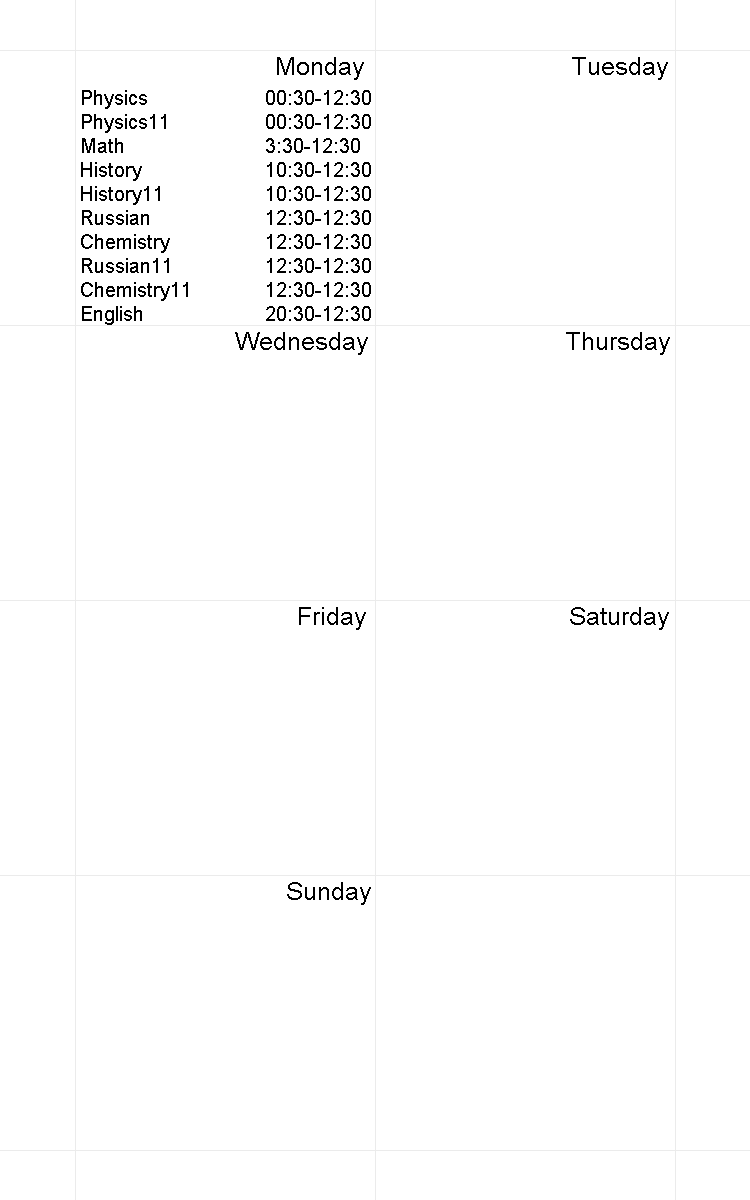
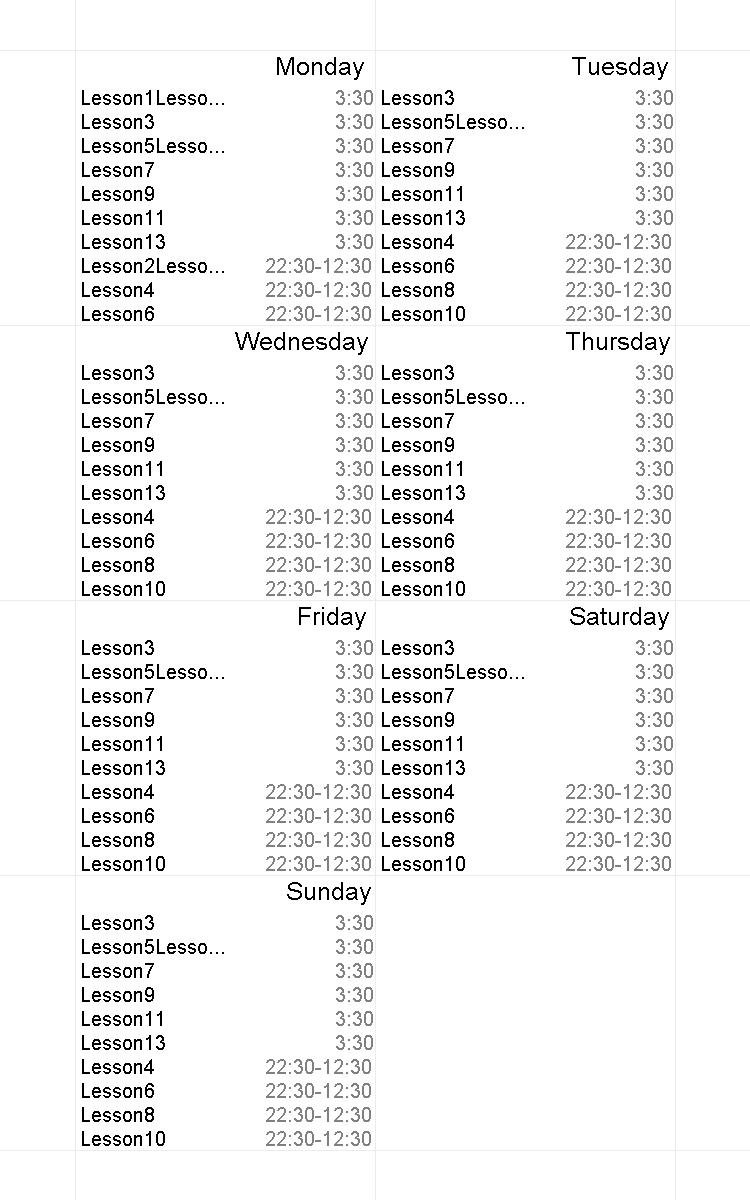
Other days done. Time can read only start or both end and start. Too long strings are replaced

diff --git a/src/TimetableTests/CheckDrawTimetable.java b/src/TimetableTests/CheckDrawTimetable.java
@@ -11,13 +11,49 @@ public class CheckDrawTimetable {
 	@Test
 	public void test1() {
 		String path = "out.png";
-		String data = "Math: monday 3:30-12:30 \nLiterature: Monday 22:30-12:30 \n";
-		data += "English: MON 20:30-12:30 \nHistory: Monday 10:30-12:30 \n";
-		data += "Kazakh: Monday 22:30-12:30 \nRussian: Monday 12:30-12:30 \n";
-		data += "Physics: Monday 00:30-12:30 \nChemistry: Monday 12:30-12:30 \n";
-		data += "English11: MON 20:30-12:30 \nHistory11: Monday 10:30-12:30 \n";
-		data += "Kazakh11: Monday 22:30-12:30 \nRussian11: Monday 12:30-12:30 \n";
-		data += "Physics11: Monday 00:30-12:30 \nChemistry11: Monday 12:30-12:30 \n";
+		String data = "Lesson1Lesson1Lesson1: Monday 3:30 \nLesson2Lesson1L: Monday 22:30-12:30 \n";
+        data += "Lesson3: Monday 3:30 \nLesson4: Monday 22:30-12:30 \n";
+        data += "Lesson5Lesson1Lesson1Lesson1: Monday 3:30 \nLesson6: Monday 22:30-12:30 \n";
+        data += "Lesson7: Monday 3:30 \nLesson8: Monday 22:30-12:30 \n";
+        data += "Lesson9: Monday 3:30 \nLesson10: Monday 22:30-12:30 \n";
+        data += "Lesson11: Monday 3:30 \nLesson12: Monday 22:30-12:30 \n";
+        data += "Lesson13: Monday 3:30 \nLesson14: Monday 22:30-12:30 \n";
+        data += "Lesson3: Tuesday 3:30 \nLesson4: Tuesday 22:30-12:30 \n";
+        data += "Lesson5Lesson1Lesson1Lesson1: Tuesday 3:30 \nLesson6: Tuesday 22:30-12:30 \n";
+        data += "Lesson7: Tuesday 3:30 \nLesson8: Tuesday 22:30-12:30 \n";
+        data += "Lesson9: Tuesday 3:30 \nLesson10: Tuesday 22:30-12:30 \n";
+        data += "Lesson11: Tuesday 3:30 \nLesson12: Tuesday 22:30-12:30 \n";
+        data += "Lesson13: Tuesday 3:30 \nLesson14: Tuesday 22:30-12:30 \n";
+        data += "Lesson3: Wednesday 3:30 \nLesson4: Wednesday 22:30-12:30 \n";
+        data += "Lesson5Lesson1Lesson1Lesson1: Wednesday 3:30 \nLesson6: Wednesday 22:30-12:30 \n";
+        data += "Lesson7: Wednesday 3:30 \nLesson8: Wednesday 22:30-12:30 \n";
+        data += "Lesson9: Wednesday 3:30 \nLesson10: Wednesday 22:30-12:30 \n";
+        data += "Lesson11: Wednesday 3:30 \nLesson12: Wednesday 22:30-12:30 \n";
+        data += "Lesson13: Wednesday 3:30 \nLesson14: Wednesday 22:30-12:30 \n";
+        data += "Lesson3: Thursday 3:30 \nLesson4: Thursday 22:30-12:30 \n";
+        data += "Lesson5Lesson1Lesson1Lesson1: Thursday 3:30 \nLesson6: Thursday 22:30-12:30 \n";
+        data += "Lesson7: Thursday 3:30 \nLesson8: Thursday 22:30-12:30 \n";
+        data += "Lesson9: Thursday 3:30 \nLesson10: Thursday 22:30-12:30 \n";
+        data += "Lesson11: Thursday 3:30 \nLesson12: Thursday 22:30-12:30 \n";
+        data += "Lesson13: Thursday 3:30 \nLesson14: Thursday 22:30-12:30 \n";
+        data += "Lesson3: Friday 3:30 \nLesson4: Friday 22:30-12:30 \n";
+        data += "Lesson5Lesson1Lesson1Lesson1: Friday 3:30 \nLesson6: Friday 22:30-12:30 \n";
+        data += "Lesson7: Friday 3:30 \nLesson8: Friday 22:30-12:30 \n";
+        data += "Lesson9: Friday 3:30 \nLesson10: Friday 22:30-12:30 \n";
+        data += "Lesson11: Friday 3:30 \nLesson12: Friday 22:30-12:30 \n";
+        data += "Lesson13: Friday 3:30 \nLesson14: Friday 22:30-12:30 \n";
+        data += "Lesson3: Saturday 3:30 \nLesson4: Saturday 22:30-12:30 \n";
+        data += "Lesson5Lesson1Lesson1Lesson1: Saturday 3:30 \nLesson6: Saturday 22:30-12:30 \n";
+        data += "Lesson7: Saturday 3:30 \nLesson8: Saturday 22:30-12:30 \n";
+        data += "Lesson9: Saturday 3:30 \nLesson10: Saturday 22:30-12:30 \n";
+        data += "Lesson11: Saturday 3:30 \nLesson12: Saturday 22:30-12:30 \n";
+        data += "Lesson13: Saturday 3:30 \nLesson14: Saturday 22:30-12:30 \n";
+        data += "Lesson3: Sunday 3:30 \nLesson4: Sunday 22:30-12:30 \n";
+        data += "Lesson5Lesson1Lesson1Lesson1: Sunday 3:30 \nLesson6: Sunday 22:30-12:30 \n";
+        data += "Lesson7: Sunday 3:30 \nLesson8: Sunday 22:30-12:30 \n";
+        data += "Lesson9: Sunday 3:30 \nLesson10: Sunday 22:30-12:30 \n";
+        data += "Lesson11: Sunday 3:30 \nLesson12: Sunday 22:30-12:30 \n";
+        data += "Lesson13: Sunday 3:30 \nLesson14: Sunday 22:30-12:30 \n";
 		boolean output = t.createTimetableForPhone(data,path);
 		assertEquals(output,true);
 	}

diff --git a/src/TimetableGenerator/DrawTimetable.java b/src/TimetableGenerator/DrawTimetable.java
@@ -75,9 +75,42 @@ public class DrawTimetable {
 	     graphics.drawString("Saturday", x2+toRight-6, (y3+dayOfWeekFontsize));
 	     graphics.drawString("Sunday", x1+toRight+11, (y4+dayOfWeekFontsize));
 
-	     int block1planx = x1+screenPaddingSize, block1plany= y1+dayOfWeekFontsize+dayOfWeekSpacesize+planFontsize;
-	     int block1timex= x2-timeSize, block1timey= block1plany;
+	   //int x0 =0, x1 = 75, x2 = 375, x3 = 675, x4 = 750;
+	  //  int y0 = 0, y1 = 50, y2 = 325, y3 = 600, y4 = 875, y5 = 1150, y6 = 1200;
+
+	     int block1planx = x1+screenPaddingSize, block1plany=y1+dayOfWeekFontsize+dayOfWeekSpacesize+planFontsize;
+	     int block1timex= x2, block1timey= block1plany;
 	     int block1bordery= y2;
+
+	     int block2planx = x2+screenPaddingSize, block2plany=y1+dayOfWeekFontsize+dayOfWeekSpacesize+planFontsize;
+	     int block2timex= x3, block2timey= block2plany;
+	     int block2bordery= y2;
+
+	     int block3planx = x1+screenPaddingSize, block3plany=y2+dayOfWeekFontsize+dayOfWeekSpacesize+planFontsize;
+	     int block3timex= x2, block3timey= block3plany;
+	     int block3bordery= y3;
+
+	     int block4planx = x2+screenPaddingSize, block4plany=y2+dayOfWeekFontsize+dayOfWeekSpacesize+planFontsize;
+	     int block4timex= x3, block4timey= block4plany;
+	     int block4bordery= y3;
+
+	     int block5planx = x1+screenPaddingSize, block5plany=y3+dayOfWeekFontsize+dayOfWeekSpacesize+planFontsize;
+	     int block5timex= x2, block5timey= block5plany;
+	     int block5bordery= y4;
+
+	     int block6planx = x2+screenPaddingSize, block6plany=y3+dayOfWeekFontsize+dayOfWeekSpacesize+planFontsize;
+	     int block6timex= x3, block6timey= block6plany;
+	     int block6bordery= y4;
+
+	     int block7planx = x1+screenPaddingSize, block7plany=y4+dayOfWeekFontsize+dayOfWeekSpacesize+planFontsize;
+	     int block7timex= x2, block7timey= block7plany;
+	     int block7bordery= y5;
+
+	     int[] blockplanx = {block1planx, block2planx, block3planx, block4planx, block5planx, block6planx, block7planx};
+	     int[] blockplany = {block1plany, block2plany, block3plany, block4plany, block5plany, block6plany, block7plany};
+	     int[] blocktimex = {block1timex, block2timex, block3timex, block4timex, block5timex, block6timex, block7timex,};
+	     int[] blockborders= {block1bordery, block2bordery,block3bordery,block4bordery,block5bordery,block6bordery,block7bordery};
+
 
 	     /* Write dynamic data to image */
 	     Timetable timetable = new Timetable();
@@ -87,18 +120,20 @@ public class DrawTimetable {
 	     graphics.setColor(Color.BLACK);
 	     for(int i = 0; i< input.size(); i++){
 	    	 Pair<Integer, Pair<Integer,Pair<String , String>>> plan= input.get(i);
-	    	 int blockborder = -1, planx = -1, plany = -1, timex = -1, timey = -1;
-	    	 if(plan.getKey()==1){
-	    		 planx = block1planx;
-	    		 plany = block1plany;
-	    		 timex = block1timex;
-	    		 timey = block1timey;
-	    		 blockborder = block1bordery;
-	    	 }
-	    	 if((plany<blockborder&&timey<blockborder)){
-	    		 graphics.drawString(plan.getValue().getValue().getKey(), planx, plany);
-	    		 graphics.drawString(plan.getValue().getValue().getValue(), timex, timey);
-	    		 block1plany+=(planFontsize+planSpacesize); block1timey+=(planFontsize+planSpacesize);
+	    	 String planRecord = plan.getValue().getValue().getKey();
+	    	 String timeRecord = plan.getValue().getValue().getValue();
+	    	 int index = plan.getKey()-1;
+	    	 int planx = blockplanx[index];
+	    	 int plany = blockplany[index];
+	    	 int timex = blocktimex[index] - (timeRecord.length()*10);
+	    	 int timey = blockplany[index];
+	    	 int blockborder = blockborders[index];
+	    	 if((plany<blockborder&&timey<blockborder)&&(index>=0&&index<7)){
+	    		 graphics.setColor(Color.BLACK);
+	    		 graphics.drawString(planRecord, planx, plany);
+	    		 graphics.setColor(Color.GRAY);
+	    		 graphics.drawString(timeRecord, timex, timey);
+	    		 blockplany[index]+=(planFontsize+planSpacesize);
 	    	 }
 	     }
 	     /* write image to file */

diff --git a/src/TimetableGenerator/Timetable.java b/src/TimetableGenerator/Timetable.java
@@ -59,11 +59,24 @@ public class Timetable {
                         time = matcher.group();
                         day = timeRecord.substring(0, timeRecord.length() - time.length());
                     }														//extract time and day from timeRecord
+                    else{
+                    	pattern = Pattern.compile("([01]?[0-9]|2[0-3]):[0-5][0-9]");
+                        matcher = pattern.matcher(record);
+                        if (matcher.find()) {
+                            time = matcher.group();
+                            day = timeRecord.substring(0, timeRecord.length() - time.length());
+                        }
+                    }
                 }
+
+
 
                 if(time.length()>0&& day.length()>0){
                 	int minutes = getMinutes(time);
                 	int dayOfWeek = getDayIndex(day);
+                	if(plan.length()>14){
+                		plan = plan.substring(0, 12)+"...";
+                	}
                 	if(dayOfWeek!=0){
                 		answer.add(new Pair(dayOfWeek,new Pair(minutes,new Pair(plan, time))));
                 	}
@@ -144,7 +157,7 @@ public class Timetable {
 		String delims = "[ :-]+";
         String[] tokens = str.split(delims);
         int startTime = getMinutes(Integer.parseInt(tokens[0]),Integer.parseInt(tokens[1]));
-        int endTime = getMinutes(Integer.parseInt(tokens[2]),Integer.parseInt(tokens[3]));
+        //int endTime = getMinutes(Integer.parseInt(tokens[2]),Integer.parseInt(tokens[3]));
         return startTime;
 	}
 
